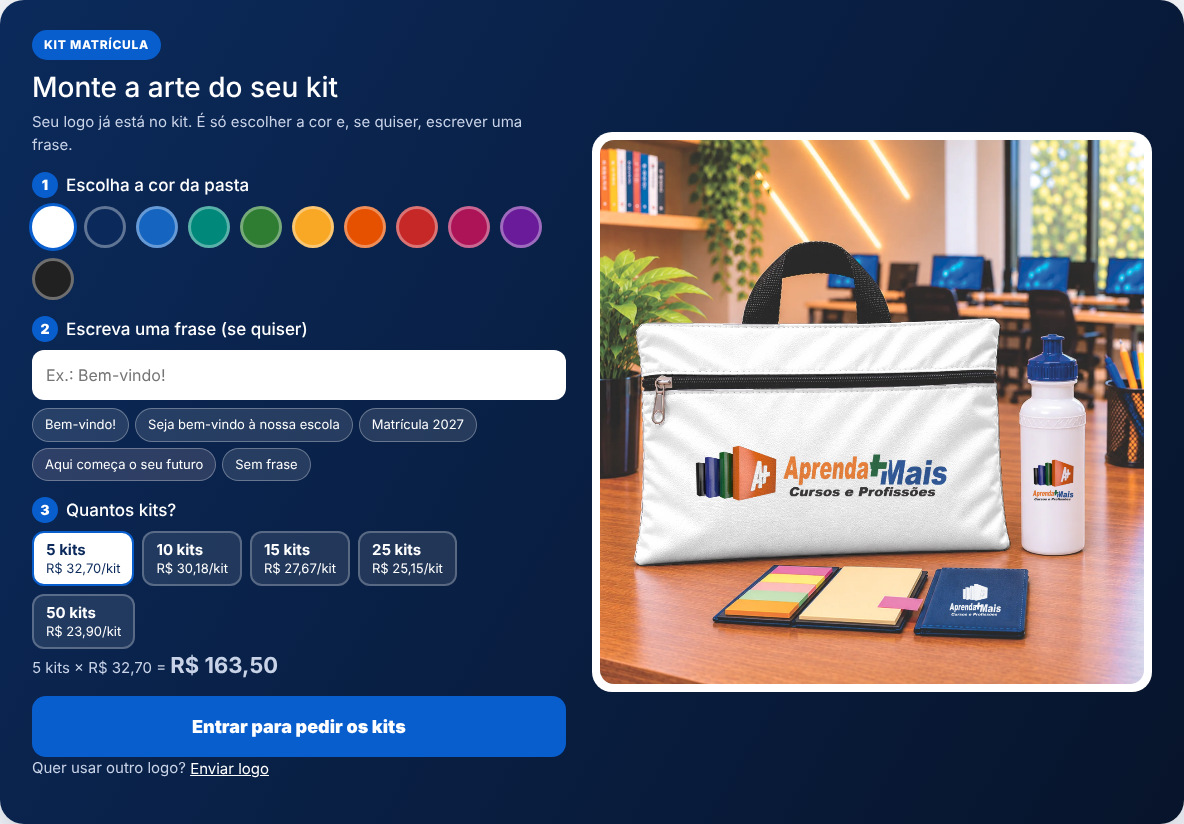
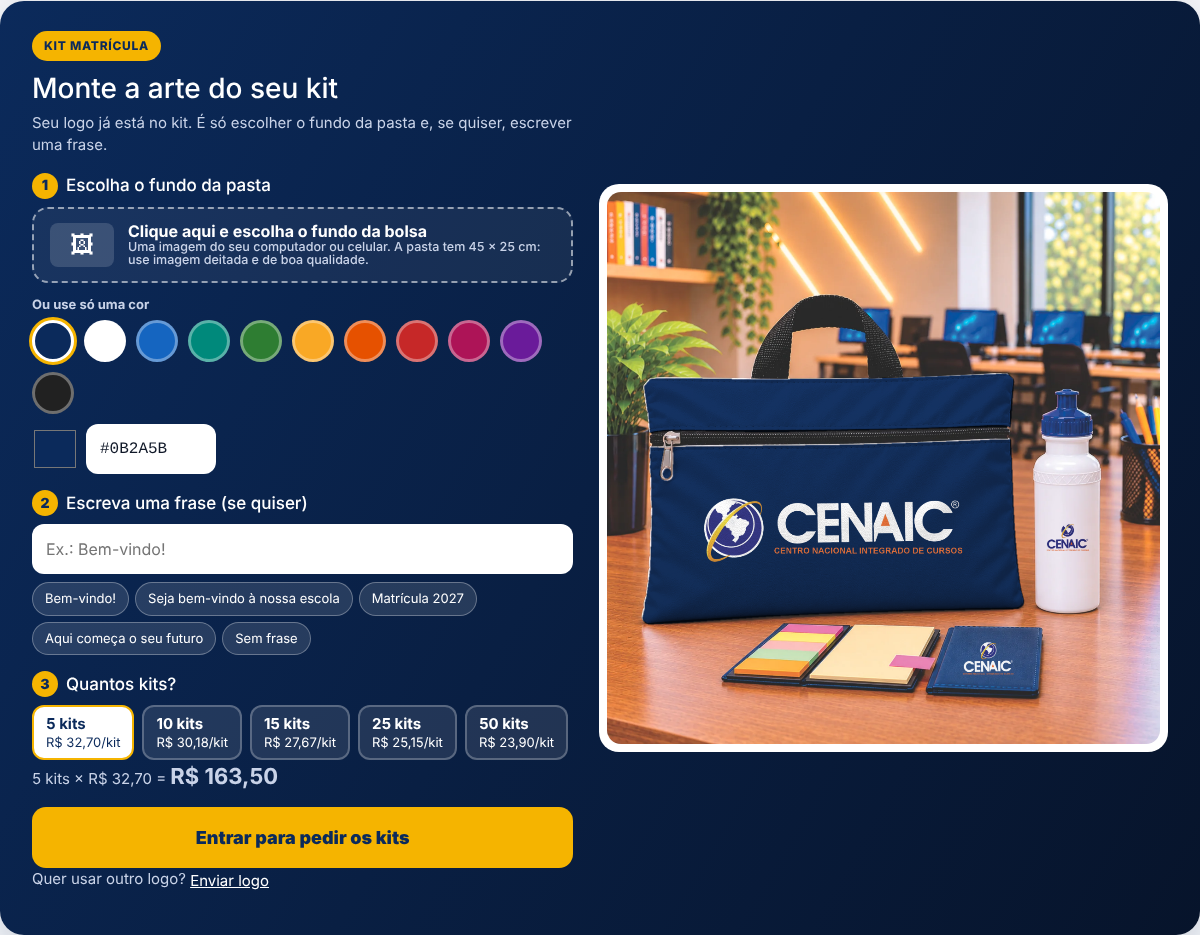
Kit Matrícula na vitrine: campo para clicar e escolher o fundo da bolsa, sem guardar histórico
Claude-Session: https://claude.ai/code/session_01Jsm55pWuFSzzKgw2LqHBXD

diff --git a/vitrine-nova/kit-editor/dckit-editor.js b/vitrine-nova/kit-editor/dckit-editor.js
@@ -9,8 +9,7 @@ var FRASES=['Bem-vindo!','Seja bem-vindo à nossa escola','Matrícula '+(new Dat
 var st={cor:CORES[0],txt:'',q:K.min},BG=null;
 /* arquivo de impressao da pasta: 45 x 25 cm a 150 dpi, recortado do centro da pasta */
 var PR={larg:45,alt:25,dpi:150};
-try{var sv=JSON.parse(localStorage.getItem('dckit_ed')||'null');if(sv){if(/^#[0-9A-F]{6}$/i.test(sv.cor||'')){st.cor=sv.cor.toUpperCase();}st.txt=String(sv.txt||'').slice(0,40);if(+sv.q>=K.min){st.q=+sv.q;}}}catch(e){}
-function guarda(){try{localStorage.setItem('dckit_ed',JSON.stringify(st));}catch(e){}}
+function guarda(){}
 function fmt(v){return 'R$ '+v.toFixed(2).replace('.',',');}
 function un(q){var p=null;K.faixas.forEach(function(f){if(q>=f.q){p=f.p;}});return p;}
 function esc(s){return String(s).replace(/[&<>"']/g,function(c){return {'&':'&amp;','<':'&lt;','>':'&gt;','"':'&quot;',"'":'&#39;'}[c];});}
@@ -25,7 +24,7 @@ var css=document.createElement('style');css.textContent='.dckv-ed h3{color:#fff;
 +'.dckv-qt{display:flex;flex-wrap:wrap;gap:8px}.dckv-qt button{background:rgba(255,255,255,.1);border:2px solid rgba(255,255,255,.25);color:#fff;border-radius:12px;padding:8px 12px;font-size:13px;cursor:pointer;line-height:1.25;text-align:left}.dckv-qt button b{display:block;font-size:15px}.dckv-qt button.on{background:#fff;color:#0B2A5B;border-color:var(--c,#F5B400)}'
 +'.dckv-tot{margin:12px 0 0;font-size:16px;color:#fff}.dckv-tot b{font-size:22px}.dckv-go{display:block;width:100%;margin-top:14px;border:0;border-radius:14px;padding:17px;font-size:18px;font-weight:900;cursor:pointer;background:var(--c,#F5B400);color:var(--ct,#0B2A5B)}.dckv-go[disabled]{opacity:.6;cursor:wait}'
 +'.dckv-lg{margin-top:12px;font-size:13px;color:#C9D3E8}.dckv-lg label{color:#fff;text-decoration:underline;cursor:pointer}.dckv-cv{width:100%;height:auto;display:block;border-radius:14px;background:#fff}.dckv-ld{padding:40px;text-align:center;color:#0B2A5B;font-weight:700}'
-+'.dckv-hx{display:flex;gap:8px;align-items:center;margin-top:10px;flex-wrap:wrap}.dckv-hx input[type=text]{width:130px;font-family:monospace;text-transform:uppercase}.dckv-hx input[type=color]{width:46px;height:46px;border:0;border-radius:10px;padding:0;background:none;cursor:pointer}.dckv-bt2{background:#fff;color:#0B2A5B;border:0;border-radius:12px;padding:12px 14px;font-weight:800;font-size:14px;cursor:pointer;display:inline-block}.dckv-bt2[hidden]{display:none}.dckv-bt2.x{background:rgba(255,255,255,.12);color:#fff;border:1px solid rgba(255,255,255,.3)}.dckv-ed small.dica{display:block;background:none;color:#C9D3E8;text-transform:none;letter-spacing:0;font-weight:500;padding:0;margin-top:6px}';
++'.dckv-hx{display:flex;gap:8px;align-items:center;margin-top:10px;flex-wrap:wrap}.dckv-hx input[type=text]{width:130px;font-family:monospace;text-transform:uppercase}.dckv-hx input[type=color]{width:46px;height:46px;border:0;border-radius:10px;padding:0;background:none;cursor:pointer}.dckv-bt2{background:#fff;color:#0B2A5B;border:0;border-radius:12px;padding:12px 14px;font-weight:800;font-size:14px;cursor:pointer;display:inline-block}.dckv-bt2[hidden]{display:none}.dckv-fd{display:flex;align-items:center;gap:14px;border:2px dashed rgba(255,255,255,.55);border-radius:16px;padding:14px 16px;cursor:pointer;background:rgba(255,255,255,.06);color:#fff}.dckv-fd:hover{border-color:var(--c,#F5B400);background:rgba(255,255,255,.12)}.dckv-fd i{flex:0 0 64px;height:44px;border-radius:8px;background:rgba(255,255,255,.15) center/cover no-repeat;display:flex;align-items:center;justify-content:center;font-style:normal;font-size:24px}.dckv-fd b{display:block;font-size:16px}.dckv-fd .fds{display:block;color:#C9D3E8;font-size:12.5px;margin-top:2px;background:none;text-transform:none;letter-spacing:0;font-weight:500;padding:0;border-radius:0}.dckv-ed .sub{color:#C9D3E8;font-size:13px;margin:12px 0 6px;font-weight:700}.dckv-bt2.x{background:rgba(255,255,255,.12);color:#fff;border:1px solid rgba(255,255,255,.3)}.dckv-ed small.dica{display:block;background:none;color:#C9D3E8;text-transform:none;letter-spacing:0;font-weight:500;padding:0;margin-top:6px}';
 document.head.appendChild(css);
 var esq=sec.firstElementChild,dir=sec.lastElementChild,ed=null,cv=null;
 [].forEach.call(sec.querySelectorAll('[data-dckit-abrir]'),function(a){a.addEventListener('click',function(e){e.preventDefault();abre();});});
@@ -33,8 +32,8 @@ function abre(){
 if(ed){return;}
 ed=document.createElement('div');ed.className='dckv-ed';
 var h='<small>Kit Matrícula</small><h2 style="font-size:28px">Monte a arte do seu kit</h2><p>Seu logo já está no kit. É só escolher o fundo da pasta e, se quiser, escrever uma frase.</p>';
-h+='<h3><i>1</i>Escolha o fundo da pasta</h3><div class="dckv-sw">'+CORES.map(function(c){return '<button type="button" data-c="'+c+'" style="background:'+c+'" aria-label="Cor '+c+'"></button>';}).join('')+'</div>';
-h+='<div class="dckv-hx"><input type="color" aria-label="Escolher cor"><input type="text" class="hx" maxlength="7" placeholder="#0B2A5B" aria-label="Cor em hexadecimal"><label class="dckv-bt2">Usar uma imagem de fundo<input type="file" class="bgf" accept="image/*" hidden></label><button type="button" class="dckv-bt2 x bgx" hidden>Tirar a imagem</button></div><small class="dica">Imagem de fundo: a pasta tem 45 x 25 cm. Use uma imagem deitada, de boa qualidade.</small>';
+h+='<h3><i>1</i>Escolha o fundo da pasta</h3><label class="dckv-fd"><i class="fdi">&#128444;</i><span><b class="fdt">Clique aqui e escolha o fundo da bolsa</b><span class="fds">Uma imagem do seu computador ou celular. A pasta tem 45 x 25 cm: use imagem deitada e de boa qualidade.</span></span><input type="file" class="bgf" accept="image/*" hidden></label><button type="button" class="dckv-bt2 x bgx" hidden style="margin-top:8px">Tirar a imagem e usar só cor</button><p class="sub">Ou use só uma cor</p><div class="dckv-sw">'+CORES.map(function(c){return '<button type="button" data-c="'+c+'" style="background:'+c+'" aria-label="Cor '+c+'"></button>';}).join('')+'</div>';
+h+='<div class="dckv-hx"><input type="color" aria-label="Escolher cor"><input type="text" class="hx" maxlength="7" placeholder="#0B2A5B" aria-label="Cor em hexadecimal"></div>';
 h+='<h3><i>2</i>Escreva uma frase (se quiser)</h3><input type="text" maxlength="40" placeholder="Ex.: Bem-vindo!" aria-label="Frase da pasta"><div class="dckv-ch">'+FRASES.map(function(f){return '<button type="button">'+esc(f)+'</button>';}).join('')+'<button type="button" data-limpa="1">Sem frase</button></div>';
 h+='<h3><i>3</i>Quantos kits?</h3><div class="dckv-qt">'+K.faixas.map(function(f){return '<button type="button" data-q="'+f.q+'"><b>'+f.q+' kits</b>'+fmt(f.p)+'/kit</button>';}).join('')+'</div>';
 h+='<p class="dckv-tot"></p><button type="button" class="dckv-go"></button>';
@@ -45,11 +44,12 @@ var ld=document.createElement('div');ld.className='dckv-ld';ld.textContent='Carr
 dir.style.display='none';var box=document.createElement('div');box.style.cssText='background:#fff;border-radius:20px;padding:8px';box.appendChild(ld);sec.appendChild(box);
 var inp=ed.querySelector('input[aria-label="Frase da pasta"]');inp.value=st.txt;
 var hx=ed.querySelector('input.hx'),pk=ed.querySelector('.dckv-hx input[type=color]'),bgx=ed.querySelector('.bgx');
-function poeCor(c){st.cor=c.toUpperCase();BG=null;bgx.hidden=true;guarda();marca();pinta();}
+function semImg(){BG=null;bgx.hidden=true;var fi=ed.querySelector('.fdi');fi.style.backgroundImage='';fi.innerHTML='&#128444;';ed.querySelector('.fdt').textContent='Clique aqui e escolha o fundo da bolsa';}
+function poeCor(c){st.cor=c.toUpperCase();semImg();marca();pinta();}
 hx.addEventListener('input',function(){var v=hx.value.trim();if(v.charAt(0)!=='#'){v='#'+v;}if(/^#[0-9a-fA-F]{6}$/.test(v)){poeCor(v);}});
 pk.addEventListener('input',function(){poeCor(pk.value);});
-ed.querySelector('.bgf').addEventListener('change',function(){var f=this.files&&this.files[0];if(!f){return;}var r=new FileReader();r.onload=function(){img(r.result).then(function(i){if(i){BG=i;bgx.hidden=false;marca();pinta();}});};r.readAsDataURL(f);this.value='';});
-bgx.addEventListener('click',function(){BG=null;bgx.hidden=true;marca();pinta();});
+ed.querySelector('.bgf').addEventListener('change',function(){var f=this.files&&this.files[0];if(!f){return;}var r=new FileReader();r.onload=function(){img(r.result).then(function(i){if(i){BG=i;bgx.hidden=false;var fi=ed.querySelector('.fdi');fi.style.backgroundImage='url('+r.result+')';fi.textContent='';ed.querySelector('.fdt').textContent='Fundo escolhido. Clique para trocar';marca();pinta();}});};r.readAsDataURL(f);this.value='';});
+bgx.addEventListener('click',function(){semImg();marca();pinta();});
 inp.addEventListener('input',function(){st.txt=inp.value;guarda();pinta();});
 [].forEach.call(ed.querySelectorAll('.dckv-ch button'),function(b){b.addEventListener('click',function(){st.txt=b.getAttribute('data-limpa')?'':b.textContent;inp.value=st.txt;guarda();pinta();});});
 [].forEach.call(ed.querySelectorAll('.dckv-sw button'),function(b){b.addEventListener('click',function(){poeCor(b.getAttribute('data-c'));});});
